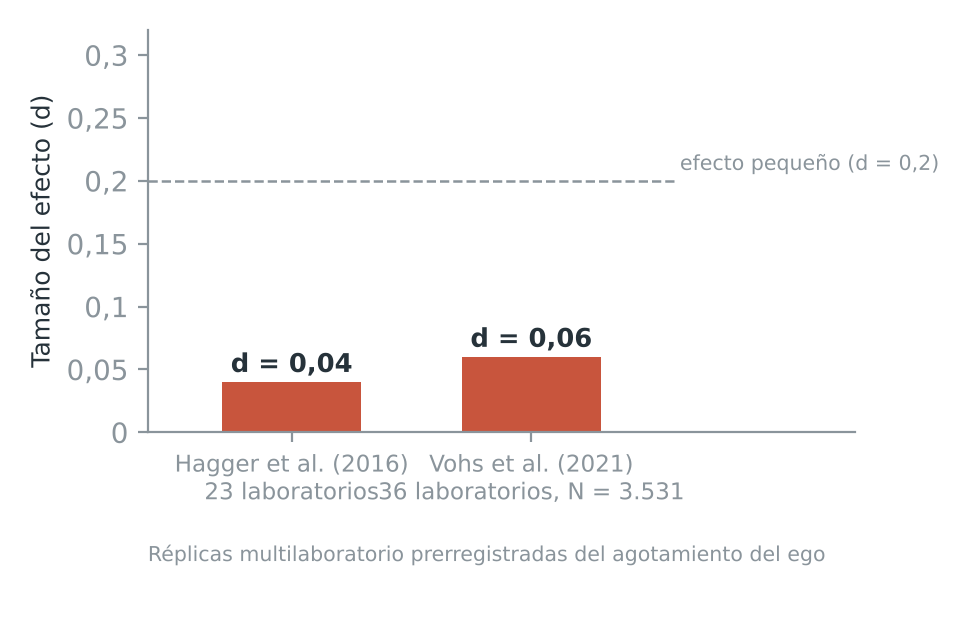
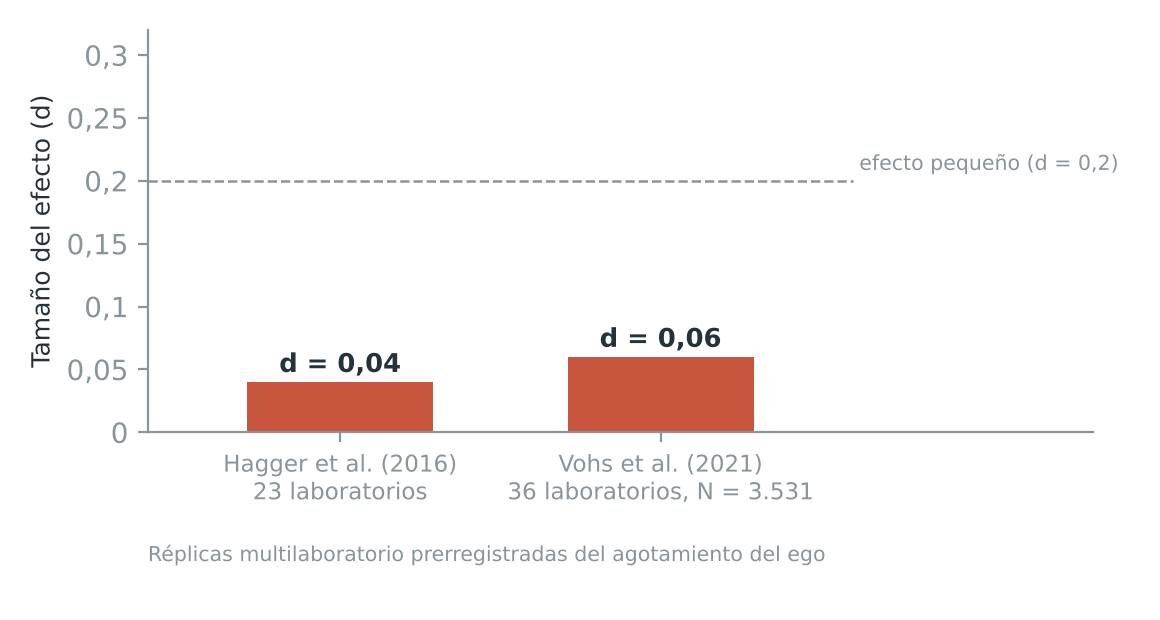
Psicología Social: ajustes de pies y figuras
Claude-Session: https://claude.ai/code/session_015DUpSWD3v1fAkKExrWDbcG

diff --git a/temarios/social/tools/figuras.py b/temarios/social/tools/figuras.py
@@ -163,7 +163,7 @@ if want('asch-anderson'):
 
 if want('ego-depletion'):
     bars('ego-depletion.png', ['Hagger et al. (2016)\n23 laboratorios', 'Vohs et al. (2021)\n36 laboratorios, N = 3.531'], [.04, .06], [A, A],
-         'Tamaño del efecto (d)', (0, .32), fmt=lambda v: f'd = {v:.2f}'.replace('.', ','), size=(4.8, 3.1), ref=(.2, 'efecto pequeño (d = 0,2)'),
+         'Tamaño del efecto (d)', (0, .32), fmt=lambda v: f'd = {v:.2f}'.replace('.', ','), size=(5.8, 3.1), ref=(.2, 'efecto pequeño (d = 0,2)'),
          foot='Réplicas multilaboratorio prerregistradas del agotamiento del ego')
 
 # ---------- U5 ----------

diff --git a/temarios/social/06-prejuicio.md b/temarios/social/06-prejuicio.md
@@ -206,7 +206,7 @@ Las teorías intergrupales explican por qué el prejuicio aparece en grupos ente
 
 ![s](wm-sherif.jpg)
 
-Figura 14.2. **Muzafer Sherif.** Muzafer Sherif (foto de 1967). Autor de los estudios del efecto autocinético y de los campamentos de Robbers Cave. Fuente: autor desconocido, Wikimedia Commons, dominio público.
+Figura 14.2. **Muzafer Sherif (foto de 1967).** Autor de los estudios del efecto autocinético y de los campamentos de Robbers Cave. Fuente: autor desconocido, Wikimedia Commons, dominio público.
 
 El estudio, dirigido por Sherif (figura 14.2), tuvo tres fases:
 
@@ -258,7 +258,7 @@ Ambos se miden con el **Inventario de Sexismo Ambivalente** (ASI). El sexismo be
 
 ![s](wm-crenshaw.jpg)
 
-Figura 14.4. **Kimberlé Crenshaw.** Kimberlé Crenshaw (2018). Acuñó el término interseccionalidad en 1989. Fuente: Mohamed Badarne, Wikimedia Commons, CC BY‑SA 4.0.
+Figura 14.4. **Kimberlé Crenshaw (2018).** Acuñó el término interseccionalidad en 1989. Fuente: Mohamed Badarne, Wikimedia Commons, CC BY‑SA 4.0.
 
 La propuesta de Crenshaw (figura 14.4) es que las categorías sociales (género, origen, clase, orientación sexual, discapacidad) **no se suman sin más**: se combinan y producen experiencias propias de discriminación y de privilegio, que el estudio de cada categoría por separado oculta.
 

diff --git a/temarios/social/08-apendices.md b/temarios/social/08-apendices.md
@@ -42,8 +42,8 @@
 
 | Mito | Corrección | Unidad |
 | --- | --- | --- |
-| La «fuerza de voluntad» se agota como un músculo | El agotamiento del ego no se replicó en réplicas multilaboratorio (Hagger et al., 2016; Vohs et al., 2021) | 4 |
 | Leer palabras sobre la vejez hace caminar más despacio | Doyen et al. (2012) no lo replicaron; el efecto aparecía cuando los experimentadores lo esperaban | 3 |
+| La «fuerza de voluntad» se agota como un músculo | El agotamiento del ego no se replicó en réplicas multilaboratorio (Hagger et al., 2016; Vohs et al., 2021) | 4 |
 | Las «posturas de poder» cambian las hormonas | Ranehill et al. (2015) no lo replicaron; Carney se desvinculó del efecto en 2016 | 4, 7 |
 | Explicamos nuestra conducta por la situación y la ajena por la persona, siempre | La asimetría actor‑observador es prácticamente nula (Malle, 2006) | 6 |
 | Una autoestima alta produce éxito | Correlaciona con felicidad e iniciativa, pero no causa mejor rendimiento (Baumeister et al., 2003) | 8 |

diff --git a/temarios/social/07-ampliacion.md b/temarios/social/07-ampliacion.md
@@ -46,7 +46,7 @@ La **obediencia** es el cumplimiento de una orden directa de alguien percibido c
 
 ![s](wm-milgram.jpg)
 
-Figura 15.3. **Stanley Milgram (hacia 1974).** Fuente: autor desconocido, Wikimedia Commons, dominio público (imagen recortada).
+Figura 15.3. **Stanley Milgram (hacia 1974).** Sus experimentos de obediencia (1963) siguen siendo los más citados y discutidos de la psicología social. Fuente: autor desconocido, Wikimedia Commons, dominio público (imagen recortada).
 
 **El procedimiento.** Al participante se le decía que colaboraba en un estudio sobre el efecto del castigo en el aprendizaje. Hacía de «maestro» y debía administrar descargas eléctricas, cada vez más intensas, a un «aprendiz» que fallaba. El generador iba de 15 en 15 voltios hasta 450 V. El aprendiz era un cómplice y no recibía descargas, pero protestaba, gritaba y, a partir de cierto punto, dejaba de responder. Si el maestro dudaba, el experimentador le instaba a continuar con frases preparadas.
 

diff --git a/temarios/social/02-cognicion.md b/temarios/social/02-cognicion.md
@@ -80,7 +80,7 @@ Una variante es la **falacia de la conjunción** (Tversky y Kahneman, 1983). En 
 
 ![s](wm-kahneman.jpg)
 
-Figura 3.2. **Daniel Kahneman.** Daniel Kahneman (2009). Con Amos Tversky describió los heurísticos de representatividad, disponibilidad y anclaje. Fuente: nrkbeta, Wikimedia Commons, CC BY‑SA 2.0.
+Figura 3.2. **Daniel Kahneman (2009).** Con Amos Tversky describió los heurísticos de representatividad, disponibilidad y anclaje. Fuente: nrkbeta, Wikimedia Commons, CC BY‑SA 2.0.
 
 Los heurísticos no son un defecto sin más. Gigerenzer y Goldstein (1996) defendieron que reglas sencillas pueden ser tan precisas como cálculos complejos cuando se ajustan a la estructura del ambiente. Ambas posturas aceptan los mismos datos, pero discrepan sobre si deben leerse como errores o como adaptaciones.
 
